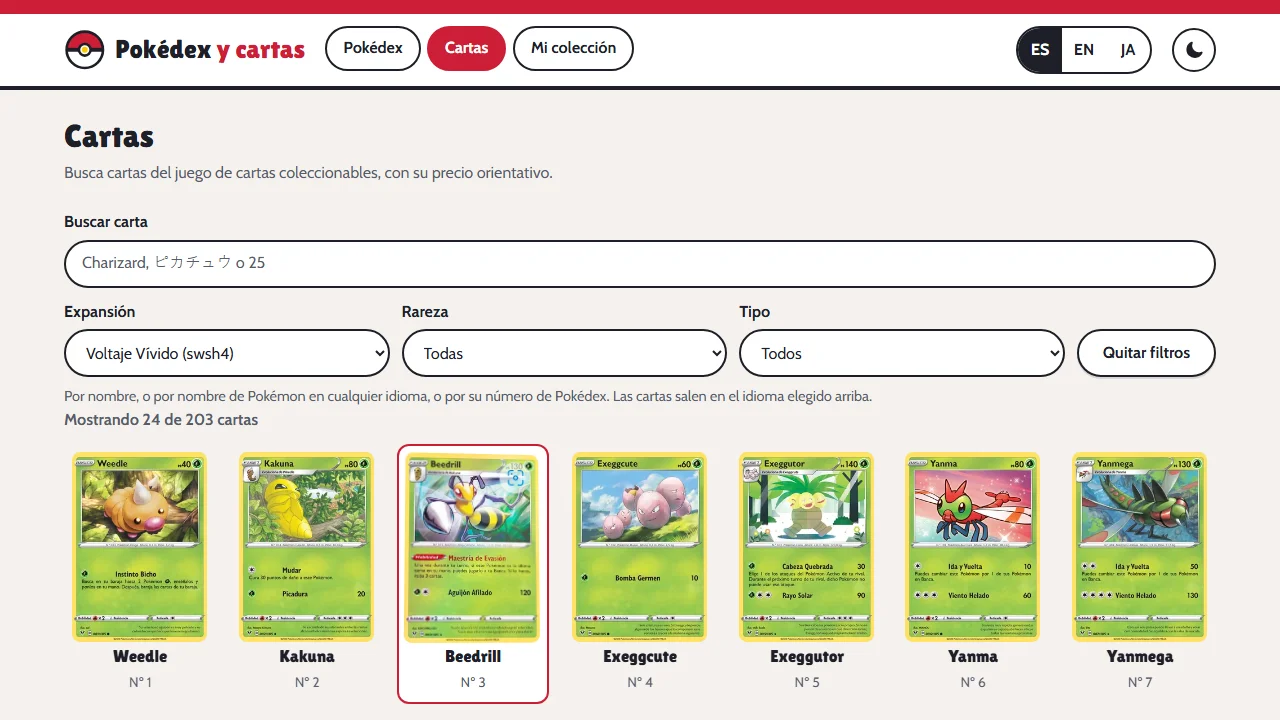
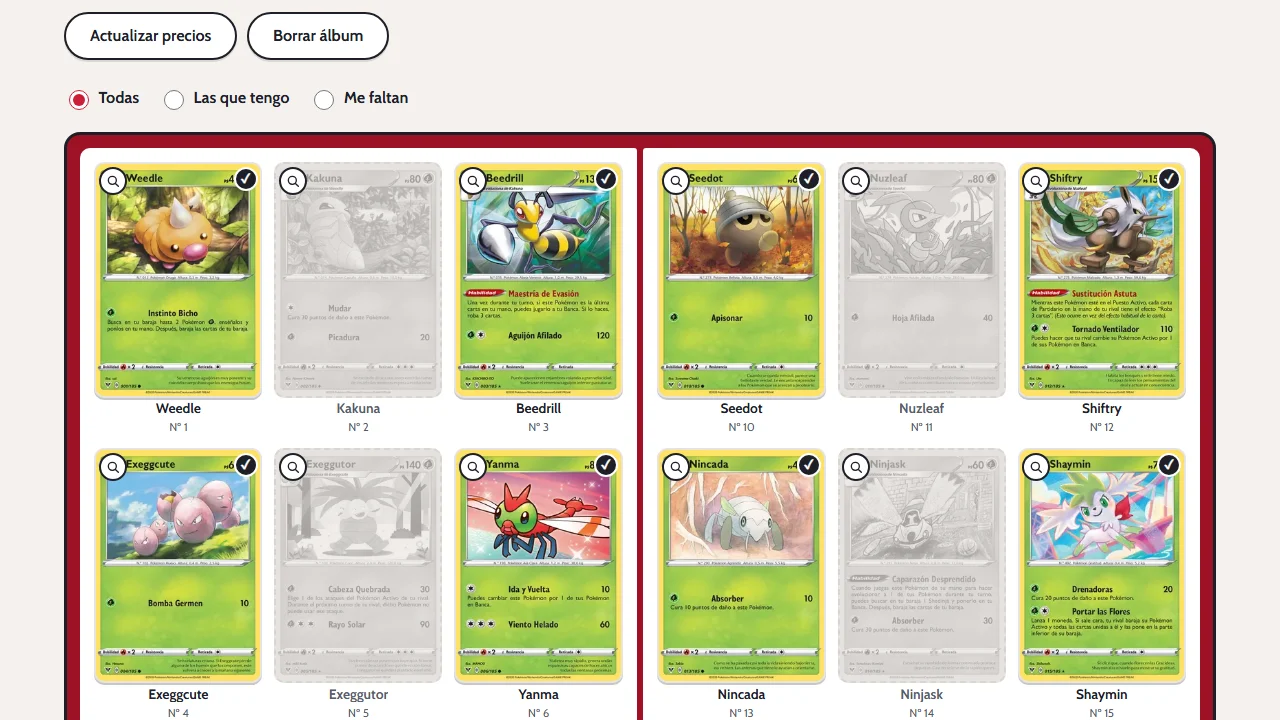
Actualizo Pokédex y cartas en el portfolio: álbumes tipo binder, textos en ES/CA/EN y portada nueva

diff --git a/proyectos/pokedex-cartas.html b/proyectos/pokedex-cartas.html
@@ -4,7 +4,7 @@
   <meta charset="utf-8">
   <meta name="viewport" content="width=device-width, initial-scale=1">
   <title data-i18n="pok.metaTitle">Pokédex y cartas · Dani Martín</title>
-  <meta name="description" data-i18n-attr="content=pok.card" content="Buscador de Pokémon y de cartas del juego de cartas, en español, inglés y japonés, con precios orientativos y una colección guardada en el navegador.">
+  <meta name="description" data-i18n-attr="content=pok.card" content="Buscador de Pokémon y de cartas del juego de cartas, en español, inglés y japonés, con precios orientativos y álbumes tipo binder para llevar tu colección.">
   <meta name="author" content="Daniel Martín Pérez">
   <meta name="theme-color" content="#072B43">
   <link rel="canonical" href="https://danimartin03.github.io/proyectos/pokedex-cartas.html">
@@ -12,7 +12,7 @@
   <meta property="og:type" content="article">
   <meta property="og:url" content="https://danimartin03.github.io/proyectos/pokedex-cartas.html">
   <meta property="og:title" content="Pokédex y cartas · Dani Martín">
-  <meta property="og:description" content="Buscador de Pokémon y de cartas del juego de cartas, en español, inglés y japonés, con precios orientativos y una colección guardada en el navegador.">
+  <meta property="og:description" content="Buscador de Pokémon y de cartas del juego de cartas, en español, inglés y japonés, con precios orientativos y álbumes tipo binder para llevar tu colección.">
   <meta property="og:image" content="https://danimartin03.github.io/assets/img/og.jpg">
   <meta name="twitter:card" content="summary_large_image">
 
@@ -87,7 +87,7 @@
             <svg class="icon" aria-hidden="true"><use href="../assets/icons/sprite.svg#arrow-left"/></svg>
             <span data-i18n="p.back">Todos los proyectos</span></a>
           <h1 class="project-hero__title hero-in" style="--d:1" data-i18n="pok.title">Pokédex y cartas</h1>
-          <p class="project-hero__lead hero-in" style="--d:2" data-i18n="pok.lead">Un buscador de Pokémon y de cartas del juego de cartas coleccionables. Mira fichas, evoluciones, cartas por expansión, rareza y tipo, su precio orientativo y guarda tu colección con su valor estimado. Es un proyecto de aficionado, sin relación con Nintendo, Game Freak ni The Pokémon Company.</p>
+          <p class="project-hero__lead hero-in" style="--d:2" data-i18n="pok.lead">Un buscador de Pokémon y de cartas del juego de cartas coleccionables. Mira fichas, evoluciones, cartas por expansión, rareza y tipo, su precio orientativo y organiza tu colección en álbumes tipo binder, con su progreso y su valor. Es un proyecto de aficionado, sin relación con Nintendo, Game Freak ni The Pokémon Company.</p>
           <ul class="hero__actions hero-in" style="--d:3">
             <li><a class="btn btn--primary" href="https://danimartin03.github.io/pokedex-cartas/" target="_blank" rel="noopener">
               <span data-i18n="p.demo">Probar la demo</span>
@@ -107,7 +107,7 @@
 
       <div class="container">
         <figure class="project-cover reveal card__media--browser">
-          <img src="../assets/img/proyectos/pokedex-cartas-web.webp" width="1280" height="720" alt="Pokédex y cartas: filtros arriba y una cuadrícula de cartas de una expansión" data-i18n-attr="alt=pok.coverAlt">
+          <img src="../assets/img/proyectos/pokedex-cartas-web.webp" width="1280" height="720" alt="Álbum tipo binder de una expansión: dos páginas con las cartas que tengo en color y las que me faltan en gris" data-i18n-attr="alt=pok.coverAlt">
         </figure>
       </div>
 
@@ -118,7 +118,7 @@
             <li data-i18n="pok.w1"><strong>Pokédex</strong> con los 1.025 Pokémon: búsqueda por nombre en tres idiomas o por número, estadísticas y evoluciones.</li>
             <li data-i18n="pok.w2"><strong>Cartas</strong> de todo el catálogo, con filtros de expansión, rareza y tipo, en español, inglés y japonés.</li>
             <li data-i18n="pok.w3"><strong>Precio orientativo</strong> de Cardmarket en euros, con su fuente y su fecha.</li>
-            <li data-i18n="pok.w4"><strong>Mi colección</strong> con cantidades y valor total, guardada solo en el navegador, y exportar e importar en JSON.</li>
+            <li data-i18n="pok.w4"><strong>Álbumes tipo binder</strong>: uno por expansión (con las cartas que te faltan en gris), otros tuyos y un álbum general, con barra de progreso y valor RAW.</li>
             <li data-i18n="pok.w5"><strong>Animaciones</strong> con tema Pokémon: la Pokéball de entrada, cartas holográficas y la captura de cartas.</li>
           </ul>
           <ul class="tags"><li>HTML</li><li>CSS</li><li>JavaScript</li><li>APIs</li></ul>

diff --git a/index.html b/index.html
@@ -298,14 +298,14 @@
 
           <article class="card reveal">
             <div class="card__media card__media--browser">
-              <img src="assets/img/proyectos/pokedex-cartas-web.webp" width="1280" height="720" loading="lazy" alt="Pokédex y cartas: filtros arriba y una cuadrícula de cartas de una expansión" data-i18n-attr="alt=pok.coverAlt">
+              <img src="assets/img/proyectos/pokedex-cartas-web.webp" width="1280" height="720" loading="lazy" alt="Álbum tipo binder de una expansión: dos páginas con las cartas que tengo en color y las que me faltan en gris" data-i18n-attr="alt=pok.coverAlt">
               <span class="card__cta" aria-hidden="true"><span data-i18n="projects.view">Ver proyecto</span>
                 <svg class="icon"><use href="assets/icons/sprite.svg#arrow-right"/></svg></span>
             </div>
             <div class="card__body">
               <p class="card__status"><span class="dot dot--green"></span><span data-i18n="pok.status">Publicado</span> · 2026</p>
               <h3 class="card__title"><a href="proyectos/pokedex-cartas.html" data-i18n="pok.title">Pokédex y cartas</a></h3>
-              <p class="card__desc" data-i18n="pok.card">Buscador de Pokémon y de cartas del juego de cartas, en español, inglés y japonés, con precios orientativos y una colección guardada en el navegador.</p>
+              <p class="card__desc" data-i18n="pok.card">Buscador de Pokémon y de cartas del juego de cartas, en español, inglés y japonés, con precios orientativos y álbumes tipo binder para llevar tu colección.</p>
               <ul class="tags" aria-label="Tecnologías" data-i18n-attr="aria-label=a11y.techList">
                 <li>HTML</li><li>CSS</li><li>JavaScript</li><li>APIs</li>
               </ul>
